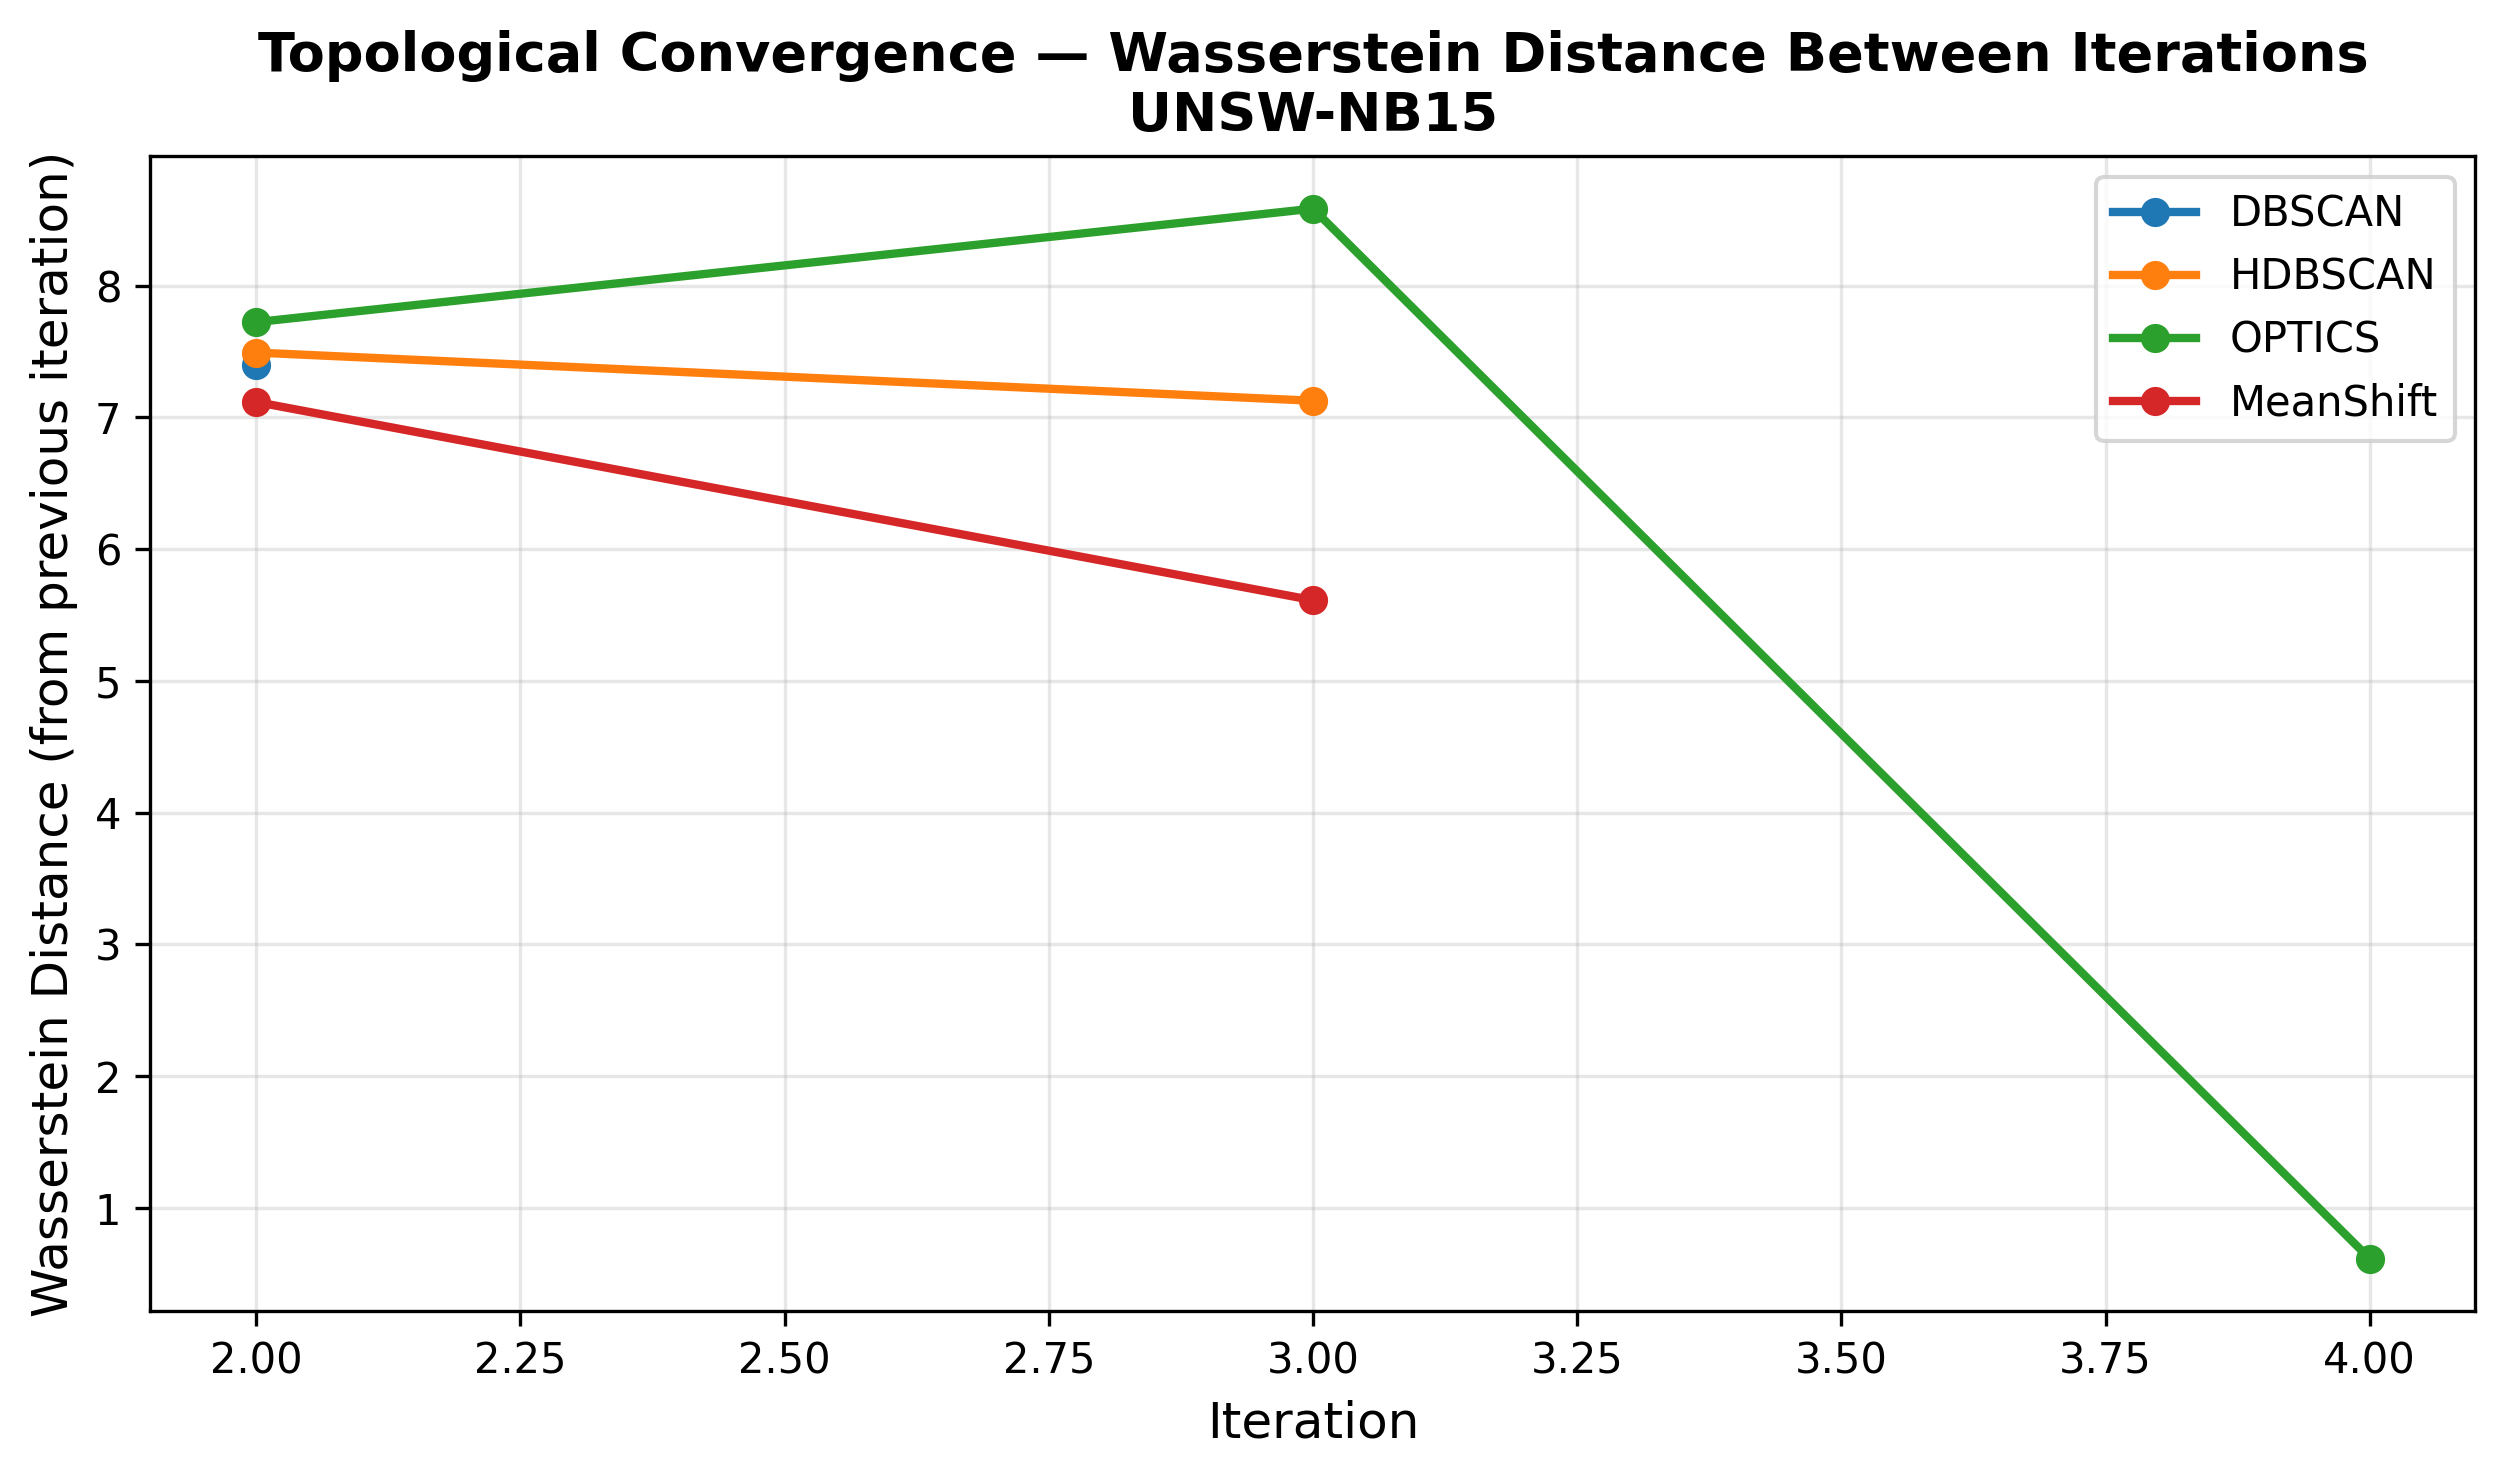
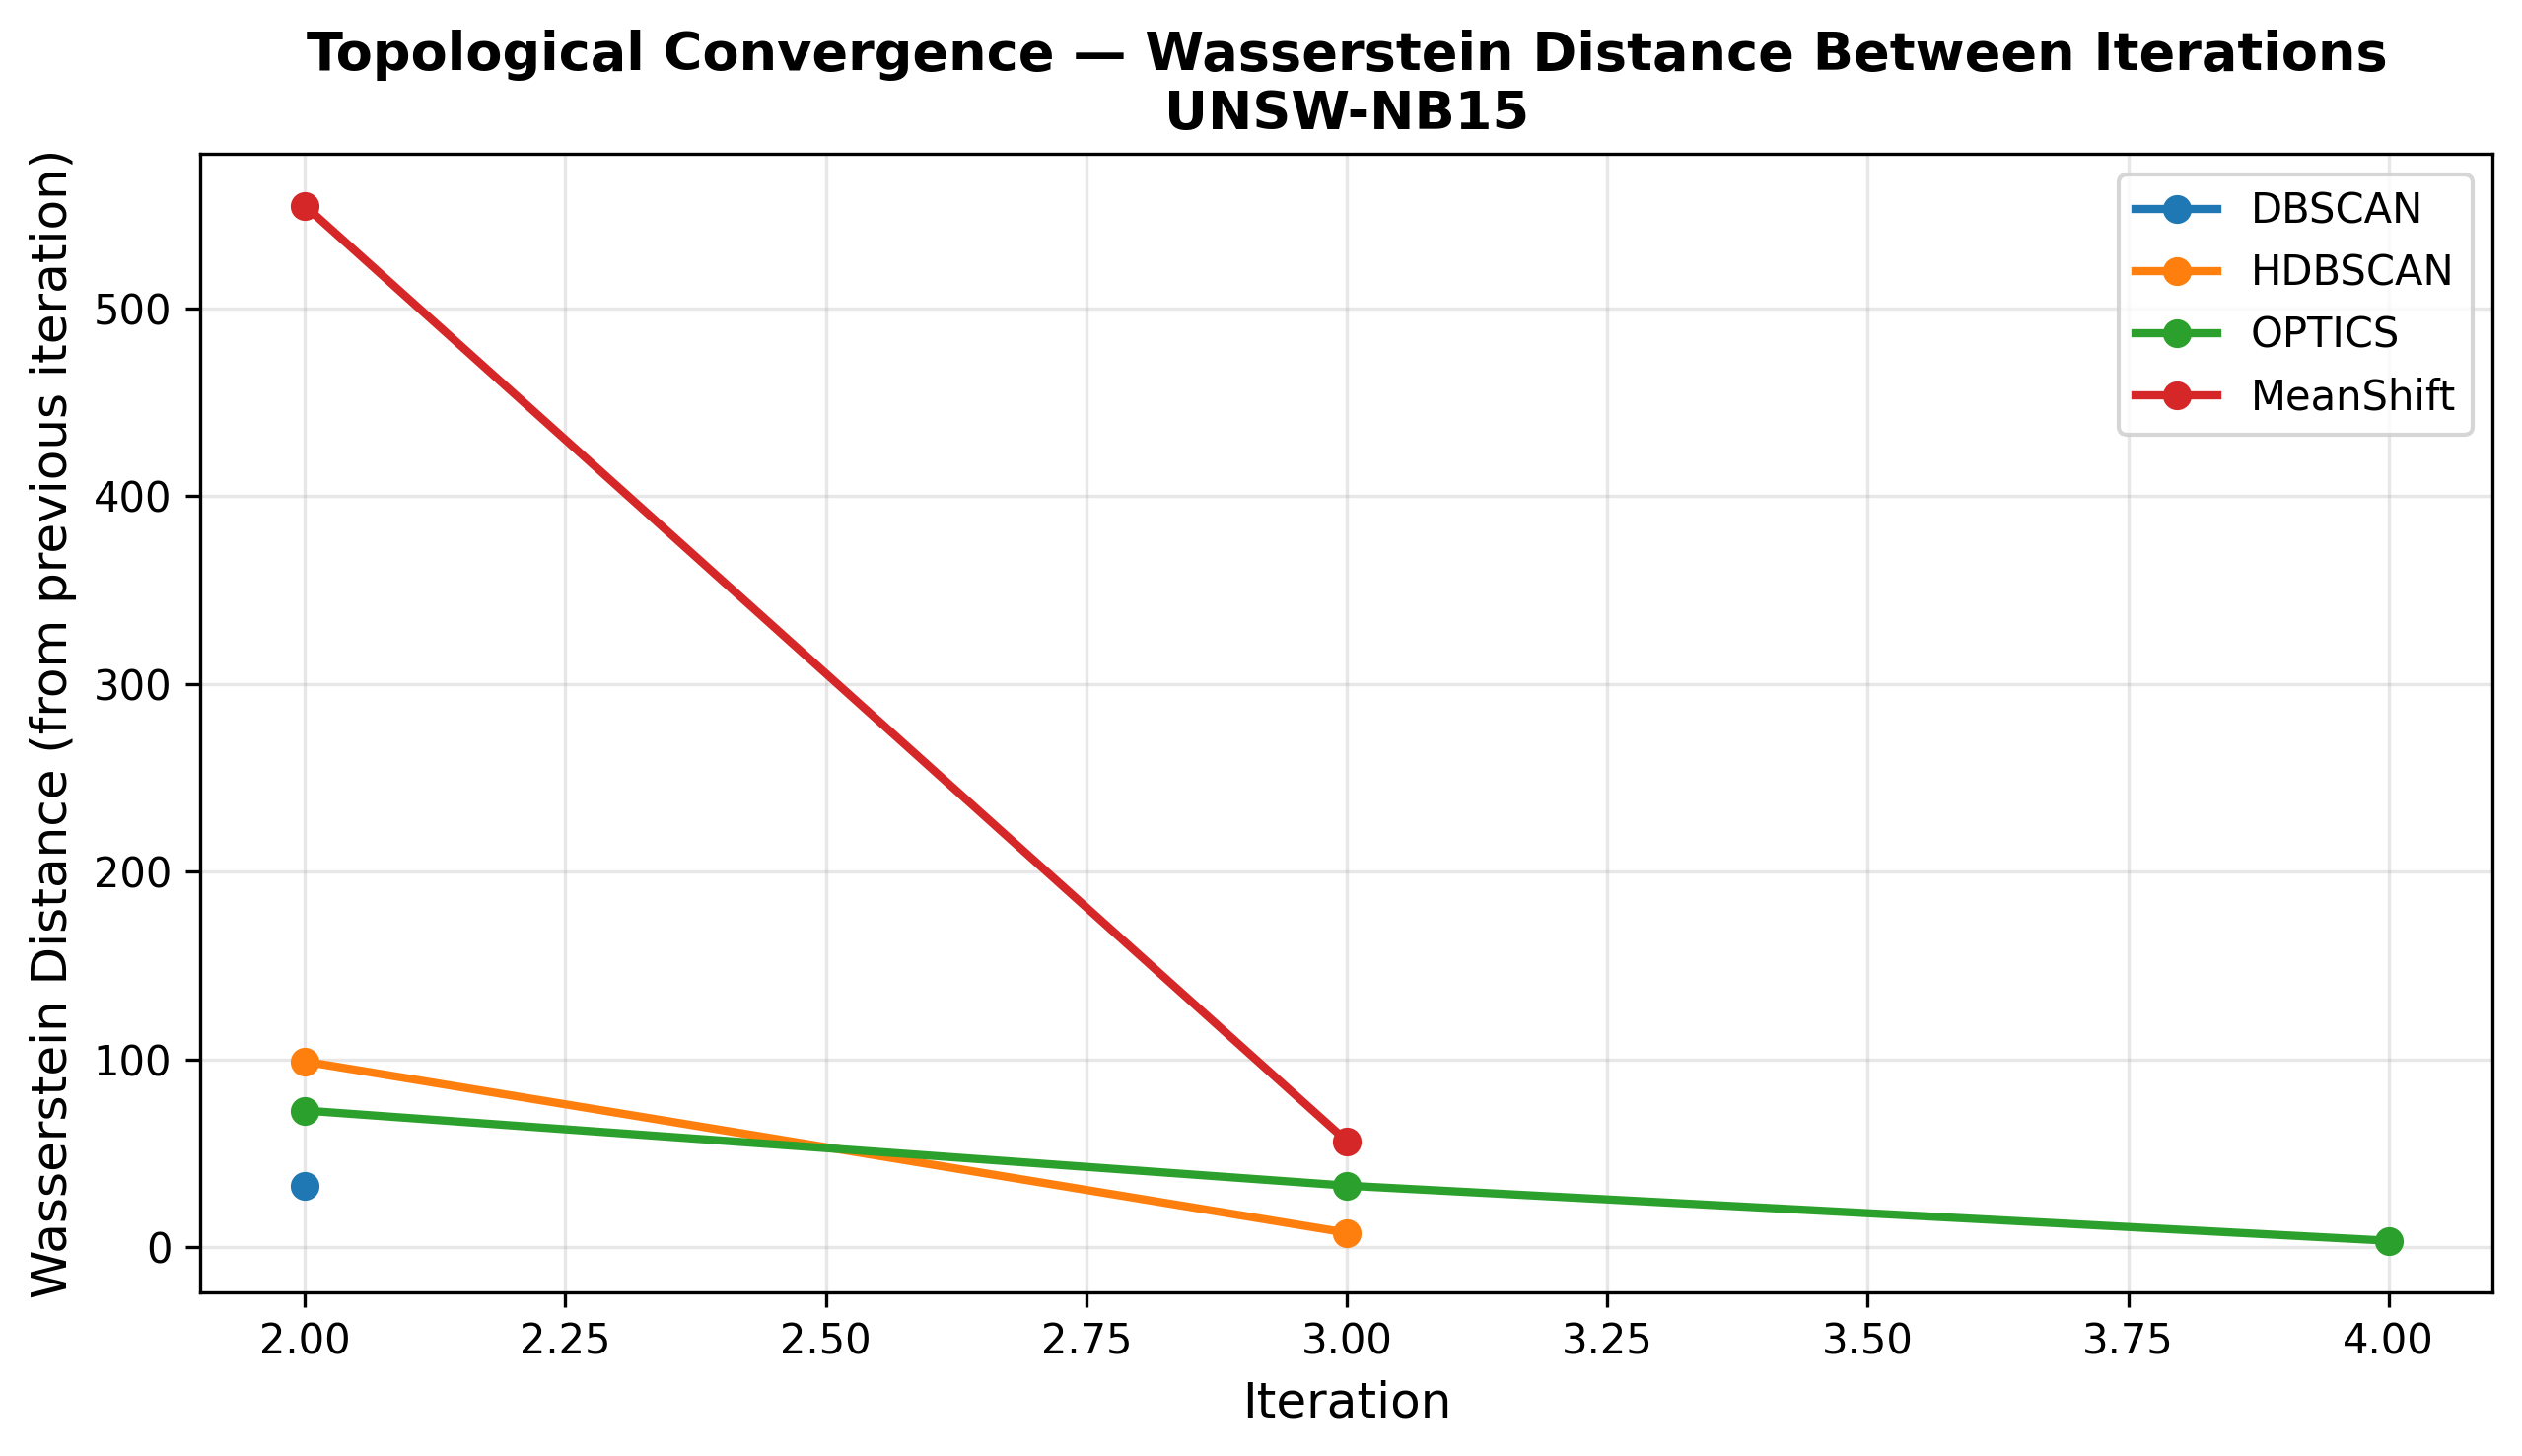
Replace per-sample amplitude-difference approximation with a true

diff --git a/iterative_filter.py b/iterative_filter.py
@@ -15,66 +15,67 @@ from tda_pipeline import extract_tda_features
 from clustering import run_all_clustering, classify_clusters
 
 
-def compute_persistence_diagrams(X_raw):
+def compute_whole_residual_diagram(X_tda_residual):
     """
-    Compute persistence diagrams for a set of raw payload byte samples.
-    Used for tracking topological changes across iterations via Wasserstein distance.
+    Compute a single persistence diagram over the entire residual, treated
+    as one point cloud in the 60-dimensional TDA feature space already used
+    for clustering, via gtda.homology.VietorisRipsPersistence.
+
+    This is the object Cohen-Steiner stability and Ferrara (2025) Eq 3.1/5.1
+    actually operate on: one persistence diagram per whole dataset
+    (PD_p(X_ref), PD_p(X_test)), not one per individual sample — see
+    wasserstein_distance_between_diagrams() below for the distance itself.
 
     Args:
-        X_raw: np.ndarray (N, 1500) — raw payload bytes
+        X_tda_residual: np.ndarray (n_residual, 60) — TDA feature vectors
+            for every sample currently in the residual (the same vectors
+            extract_tda_features() already produced earlier this iteration;
+            no separate raw-payload computation is needed).
 
     Returns:
-        diagrams: the persistence diagrams from the TDA pipeline (intermediate output)
+        diagram: np.ndarray (1, n_features, 3) — the single persistence
+            diagram for the whole-residual point cloud (homology dims 0, 1).
     """
-    from gtda.images import Binarizer, HeightFiltration
-    from gtda.homology import CubicalPersistence
-    from gtda.diagrams import Scaler
+    from gtda.homology import VietorisRipsPersistence
 
-    X_reshaped = X_raw.reshape(-1, 30, 50)
-
-    # Use the first filtration (HeightFiltration direction [0,1]) as representative
-    pipe = []
-    pipe.append(Binarizer(threshold=0.4, n_jobs=-1))
-    pipe.append(HeightFiltration(direction=np.array([0, 1]), n_jobs=-1))
-    pipe.append(CubicalPersistence(n_jobs=-1))
-    pipe.append(Scaler(n_jobs=-1))
-
-    from sklearn.pipeline import make_pipeline
-    diagram_pipe = make_pipeline(*pipe)
-    diagrams = diagram_pipe.fit_transform(X_reshaped)
-    return diagrams
+    # gtda expects (n_samples, n_points, n_dims); one whole-residual point
+    # cloud = one "sample" in that convention.
+    point_cloud = X_tda_residual[np.newaxis, :, :]
+    vr = VietorisRipsPersistence(homology_dimensions=(0, 1), n_jobs=-1)
+    diagram = vr.fit_transform(point_cloud)
+    return diagram
 
 
 def wasserstein_distance_between_diagrams(diag1, diag2):
     """
-    Compute an approximate Wasserstein distance between two sets of persistence diagrams.
+    Real diagram-to-diagram Wasserstein distance (p=1) between two
+    whole-residual persistence diagrams, via gtda.diagrams.PairwiseDistance.
 
-    Since the diagram sets may have different numbers of points, we compute
-    the distance based on summary statistics (mean birth/death times per homology dimension).
-    For a more rigorous implementation, use gtda.diagrams.PairwiseDistance.
+    Grounded in Cohen-Steiner et al.'s stability theorem for persistence
+    diagrams, and a faithful instantiation of Ferrara (2025) Eq 3.1/5.1
+    (W_p(PD_p(X_ref), PD_p(X_test))): both inputs are one diagram per whole
+    dataset, as that theory assumes, not per-sample diagrams.
 
-    This gives us a scalar measure of how much the topological structure changed
-    between iterations.
+    Lens-3 hook: this value is descriptive-only in this pass — logged and
+    plotted (see iteration_log["wasserstein_distance"] below), but not read
+    by the stopping condition or by classify_clusters()'s thresholds.
+    Making it load-bearing (a stopping check, or a detection threshold tau)
+    is a Lens 3 decision, not made here.
 
     Args:
-        diag1, diag2: persistence diagram arrays from giotto-tda
+        diag1, diag2: np.ndarray (1, n_features, 3) — single persistence
+            diagrams from compute_whole_residual_diagram().
 
     Returns:
-        distance: float — approximate topological distance between iterations
+        distance: float — real Wasserstein distance between the two
+            whole-residual diagrams.
     """
     try:
-        from gtda.diagrams import Amplitude
-        amp = Amplitude(metric="wasserstein", metric_params={"p": 1}, n_jobs=-1)
-
-        # Compute amplitude (distance from trivial diagram) for each set
-        a1 = amp.fit_transform(diag1)
-        a2 = amp.fit_transform(diag2)
-
-        # Use mean absolute difference of amplitudes as proxy for inter-set distance
-        # Pad to same length if needed
-        min_len = min(len(a1), len(a2))
-        distance = np.mean(np.abs(a1[:min_len] - a2[:min_len]))
-        return float(distance)
+        from gtda.diagrams import PairwiseDistance
+        pairwise = PairwiseDistance(metric="wasserstein", metric_params={"p": 1}, n_jobs=-1)
+        pairwise.fit(diag1)
+        dist_matrix = pairwise.transform(diag2)
+        return float(dist_matrix[0, 0])
     except Exception as e:
         print(f"    Warning: Could not compute Wasserstein distance: {e}")
         return float('nan')
@@ -108,7 +109,7 @@ def iterative_filter(X_raw, is_poisoned, algorithm="OPTICS",
     poisoned_pool_indices = []  # Red cluster samples (removed as poisoned)
 
     iteration_log = []
-    prev_diagrams = None
+    prev_diagram = None
 
     if verbose:
         print(f"\n{'='*70}")
@@ -143,19 +144,23 @@ def iterative_filter(X_raw, is_poisoned, algorithm="OPTICS",
         if verbose:
             print(f"  TDA extraction: {tda_time:.1f}s -> shape {X_tda.shape}")
 
-        # Step 1b: Compute persistence diagrams for convergence tracking
+        # Step 1b: Compute whole-residual persistence diagram (one diagram for
+        # the entire residual point cloud in TDA feature space, per Ferrara
+        # 2025 Eq 3.1/5.1) and the real Wasserstein distance from the
+        # previous iteration's whole-residual diagram, for convergence
+        # tracking. Uses X_tda from Step 1 directly — no recomputation.
         try:
-            current_diagrams = compute_persistence_diagrams(X_residual_raw)
-            if prev_diagrams is not None:
-                w_dist = wasserstein_distance_between_diagrams(prev_diagrams, current_diagrams)
+            current_diagram = compute_whole_residual_diagram(X_tda)
+            if prev_diagram is not None:
+                w_dist = wasserstein_distance_between_diagrams(prev_diagram, current_diagram)
             else:
                 w_dist = float('nan')
-            prev_diagrams = current_diagrams
+            prev_diagram = current_diagram
         except Exception as e:
             if verbose:
                 print(f"  Warning: Diagram computation failed: {e}")
             w_dist = float('nan')
-            current_diagrams = None
+            current_diagram = None
 
         # Step 2: Run clustering on TDA features
         t0 = time.time()
@@ -200,6 +205,9 @@ def iterative_filter(X_raw, is_poisoned, algorithm="OPTICS",
             "green_pct": summary["green_pct"],
             "red_pct": summary["red_pct"],
             "red_capture_pct": summary["red_poison_capture_pct"],
+            # Descriptive-only (see wasserstein_distance_between_diagrams
+            # docstring). Future hook for a stopping condition / threshold
+            # tau is Lens 3's decision, not wired in here.
             "wasserstein_distance": w_dist,
             "tda_time_s": tda_time,
             "cluster_time_s": cluster_time,

diff --git a/cc_summary.md b/cc_summary.md
@@ -2,6 +2,8 @@
 
 *Generated by Claude Code from a full read of every source file, results JSON, and figure in `C:\TDA`, per `cc_summary_generator.md`. A new agent should be able to read only this file and continue development without asking clarifying questions.*
 
+*Updated after the **Lens 2** pass (real Wasserstein distance rebuild in `iterative_filter.py`, per `LENS2_WASSERSTEIN_INSTRUCTIONS.md`): Sections 4, 7, 8, 9, and 11 were re-verified against the current source and re-run results; Sections 1–3, 5, 6, and 10 were unaffected by this lens and are carried over unchanged.*
+
 ---
 
 ## 1. Project Overview
@@ -139,14 +141,15 @@ figures/*.png
 - Dependencies: none on other project files (sklearn.cluster only).
 - Hardcoded default hyperparameters: see Section 6.
 
-**`iterative_filter.py`** (307 lines)
+**`iterative_filter.py`** (316 lines)
 - Purpose: the novel iterative topological filtration algorithm.
 - Key functions:
-  - `compute_persistence_diagrams(X_raw) -> diagrams` — one representative filtration (HeightFiltration direction `[0,1]`) used purely for convergence tracking.
-  - `wasserstein_distance_between_diagrams(diag1, diag2) -> float` — approximate distance via mean absolute difference of per-diagram Wasserstein amplitudes (not a true diagram-to-diagram Wasserstein/optimal-transport distance).
+  - `compute_whole_residual_diagram(X_tda_residual: (n_residual, 60)) -> diagram: (1, n_features, 3)` — **[Lens 2, current]** treats the whole residual's 60-dim TDA feature vectors as one point cloud and computes a single persistence diagram via `gtda.homology.VietorisRipsPersistence(homology_dimensions=(0,1))`. Reuses the `X_tda` already produced for clustering that iteration — no separate raw-payload computation.
+  - `wasserstein_distance_between_diagrams(diag1, diag2) -> float` — **[Lens 2, current]** a real diagram-to-diagram Wasserstein distance (p=1) via `gtda.diagrams.PairwiseDistance`, grounded in Cohen-Steiner stability and a faithful instantiation of Ferrara (2025) Eq 3.1/5.1 (both inputs are now one diagram per whole dataset, as that theory assumes). Descriptive-only: logged/plotted, not read by the stopping condition or `classify_clusters()`'s thresholds — a marked hook for a possible Lens 3 stopping-condition/threshold use, not built here.
   - `iterative_filter(X_raw, is_poisoned, algorithm="OPTICS", algorithm_params=None, max_iterations=10, verbose=True) -> dict` with keys `sanitized_indices`, `poisoned_pool_indices`, `residual_indices`, `iteration_log`.
-- Dependencies: `tda_pipeline.py` (`extract_tda_features`, `build_tda_pipeline`, `reshape_for_tda`), `clustering.py` (`run_all_clustering`, `classify_clusters`).
+- Dependencies: `tda_pipeline.py` (`extract_tda_features` only), `clustering.py` (`run_all_clustering`, `classify_clusters`), and (inside `compute_whole_residual_diagram`/`wasserstein_distance_between_diagrams`) `gtda.homology.VietorisRipsPersistence` / `gtda.diagrams.PairwiseDistance` directly — no dependency on `tda_pipeline.py`'s image-based filtration pipeline for this part; the two diagram computations no longer share a pipeline shape (point-cloud Rips vs. image cubical persistence), so nothing was factored into a shared helper between the files.
 - Hardcoded config: `max_iterations=10` default; stop if residual `< 10` samples; stop if no Green/Red clusters found this iteration.
+- **Lens 2 history:** prior to this pass, `compute_persistence_diagrams(X_raw)` computed one persistence diagram *per individual sample* (via a single representative filtration: `Binarizer(0.4) → HeightFiltration([0,1]) → CubicalPersistence → Scaler`, reused from `tda_pipeline.py`'s pattern but hardcoded standalone), and `wasserstein_distance_between_diagrams` approximated a set-to-set distance as the mean absolute difference between two independently-computed `Amplitude(metric="wasserstein")` arrays — not a true diagram-to-diagram distance, and not the object Cohen-Steiner/Ferrara's theory is stated over. Both were replaced outright (not refactored) with the whole-residual, point-cloud approach described above; nothing else in the codebase depended on the old per-sample diagrams (confirmed by search before deletion), so this also resolved the previously-noted duplicated-pipeline-construction issue as a side effect of deletion, not extraction into a shared helper.
 
 **`run_baseline.py`** (112 lines)
 - Purpose: Phase-1 reproduction of the paper's central claim — TDA preprocessing enables separation that raw-byte clustering cannot achieve.
@@ -309,7 +312,7 @@ function iterative_filter(X_raw, is_poisoned, algorithm, max_iterations=10):
     current_indices = all indices [0..N)
     sanitized_indices = []      # Green pool
     poisoned_pool_indices = []  # Red pool
-    prev_diagrams = None
+    prev_diagram = None
 
     for iteration in 1..max_iterations:
         if |current_indices| < 10: STOP  ("residual too small")
@@ -317,10 +320,10 @@ function iterative_filter(X_raw, is_poisoned, algorithm, max_iterations=10):
         X_residual = X_raw[current_indices]
         X_tda = extract_tda_features(X_residual)          # FRESH extraction every iteration
 
-        current_diagrams = compute_persistence_diagrams(X_residual)
-        if prev_diagrams is not None:
-            w_dist = wasserstein_distance_between_diagrams(prev_diagrams, current_diagrams)
-        prev_diagrams = current_diagrams
+        current_diagram = compute_whole_residual_diagram(X_tda)   # ONE diagram for the whole residual
+        if prev_diagram is not None:
+            w_dist = wasserstein_distance_between_diagrams(prev_diagram, current_diagram)
+        prev_diagram = current_diagram
 
         cluster_labels = run_clustering(X_tda, algorithm)   # only the chosen algorithm this call
         cluster_info, summary = classify_clusters(cluster_labels, is_poisoned[current_indices])
@@ -348,11 +351,13 @@ function iterative_filter(X_raw, is_poisoned, algorithm, max_iterations=10):
 ### Why TDA features are re-extracted fresh each iteration (not reused)
 Removing samples changes the underlying topology of the remaining point cloud — persistence diagrams (and hence Amplitude/Entropy features) are a function of the *whole* dataset being filtered, not of individual samples independently. Reusing stale features from a larger set would not reflect the new (smaller, differently-structured) residual, so `iterative_filter` calls `extract_tda_features(X_residual_raw)` from raw bytes every iteration, at real computational cost (this is the main runtime driver of the whole pipeline).
 
-### Wasserstein distance convergence tracking
-- `compute_persistence_diagrams(X_raw)` computes a single **representative** filtration only (`Binarizer(threshold=0.4)` → `HeightFiltration(direction=[0,1])` → `CubicalPersistence` → `Scaler`) — not all 5 filtrations — purely for the convergence signal, separate from the full 5-filtration feature extraction used for clustering.
-- `wasserstein_distance_between_diagrams(diag1, diag2)`: computes `Amplitude(metric="wasserstein", metric_params={"p":1})` on each diagram set independently (i.e., each sample's diagram amplitude vs. the trivial/empty diagram), then takes the **mean absolute difference** between the two amplitude arrays (truncated to `min(len(a1), len(a2))`). This is explicitly documented as an **approximation** — a true diagram-to-diagram Wasserstein distance would use `gtda.diagrams.PairwiseDistance`, which is not used here.
-- What it measures: how much the topological "shape" of the residual dataset changed from one iteration to the next. A large value (e.g., after many samples were just removed) indicates a substantial topological shift; values trending toward zero indicate the residual's structure has stabilized.
-- Observed single-run trajectory (UNSW-NB15, OPTICS, `results/iterative_results_unsw_nb15.json`): iteration 2 → 7.72, iteration 3 → 8.58 (peak), iteration 4 → 0.62 (sharp drop as the algorithm converged and stopped finding new Green/Red clusters).
+### Wasserstein distance convergence tracking (rebuilt in Lens 2 — real diagram-to-diagram distance)
+- `compute_whole_residual_diagram(X_tda_residual)` treats the **entire residual's 60-dim TDA feature vectors** as a single point cloud and computes **one** persistence diagram for the whole residual via `gtda.homology.VietorisRipsPersistence(homology_dimensions=(0,1))`. This reuses the `X_tda` matrix already extracted for clustering that iteration — no extra raw-payload computation.
+- `wasserstein_distance_between_diagrams(diag1, diag2)`: a **real** diagram-to-diagram Wasserstein distance (p=1) via `gtda.diagrams.PairwiseDistance(metric="wasserstein", metric_params={"p":1})`, fit on the previous iteration's whole-residual diagram and transformed against the current one; the resulting `(1,1)` distance matrix collapses to a single scalar. This is a faithful instantiation of Cohen-Steiner stability / Ferrara (2025) Eq 3.1/5.1 — both diagrams are now "one per whole dataset," matching what that theory is actually stated over.
+- **Superseded (pre-Lens-2) approach:** the codebase previously computed one persistence diagram *per individual sample* via a single representative image filtration, then approximated a "distance" as the mean absolute difference between two independently-computed `Amplitude(metric="wasserstein")` arrays — not a true set-to-set distance, and not the object the cited theory is about. That code path was deleted, not refactored, once confirmed nothing else in the codebase depended on the per-sample diagrams.
+- What it measures: how much the topological "shape" of the residual dataset (in TDA feature space) changed from one iteration to the next. A large value indicates a substantial topological shift; values trending toward zero indicate the residual's structure has stabilized.
+- Observed single-run trajectory, **new real metric** (UNSW-NB15, OPTICS, `results/iterative_results_unsw_nb15.json`, re-run after the Lens 2 change): iteration 2 → 72.75, iteration 3 → 32.73, iteration 4 → 3.38 (converging, same qualitative shape as before — large early shift settling toward zero — but on a different numeric scale than the old approximation, since it's now a genuinely different quantity: a real Wasserstein distance in 60-dim feature space rather than an amplitude-difference heuristic in image-filtration space). The historical run under the old approximate metric had shown 7.72 → 8.58 (peak) → 0.62; the two are not directly comparable.
+- **Performance:** `VietorisRipsPersistence` cost is steep on synthetic worst-case data (uniform-random 60-dim points are close to equidistant, forcing a near-complete simplicial complex — measured at 162.5s for n=5000 synthetic points) but real TDA feature vectors are far cheaper because they have actual cluster structure: 12.5s at n=5500 on a real CICIDS2017 residual, and full 4-algorithm UNSW-NB15 runs (TDA extraction + clustering + diagram computation combined, across all iterations) complete in 117–200s per algorithm. No subsampling fallback was needed at this data scale; one was proposed (cap the point-cloud size before building it) but not implemented, in case data scale grows substantially in a future lens.
 
 ### Stopping conditions (checked in this order each iteration)
 1. `len(current_indices) < 10` at the *start* of an iteration → stop, residual too small to process.
@@ -373,11 +378,13 @@ All figures below are pulled directly from the saved JSON in `C:\TDA\results` (n
 - Console-only script, no results JSON saved. Demonstrates qualitatively that clustering **raw** poisoned bytes yields no useful separation, while clustering **TDA-transformed** poisoned bytes lets Green/Red clusters emerge — validating the paper's central claim.
 - Only run against UNSW-NB15 in `__main__` (CICIDS2017 call is commented out).
 
-### Single-seed iterative run (`run_iterative.py` → `results/iterative_results_unsw_nb15.json`, seed 42, OPTICS branch)
+### Single-seed iterative run (`run_iterative.py` → `results/iterative_results_unsw_nb15.json`, seed 42, OPTICS branch — re-run after the Lens 2 Wasserstein rebuild)
 - 4 iterations, converged when no new Green/Red clusters were found.
 - Iteration-by-iteration: iter 1 removed 81 Green + 5 Red clusters (residual 5500→4464, red_capture 6.6% this round); iter 2 removed 15 Green clusters, 0 Red (residual→4316); iter 3 removed 0 Green, 1 Red cluster (residual→4308, +1.7% capture); iter 4 found nothing further and stopped.
-- Final: 1151 sanitized, 41 in poisoned pool, 4308 residual. **Cumulative poison capture: 8.2%** (matches the seed-42 entry in the multi-seed aggregation below), **0 false positives**.
-- Wasserstein distance trajectory: 7.72 → 8.58 (peak) → 0.62 (converged).
+- Final: 1151 sanitized, 41 in poisoned pool, 4308 residual. **Cumulative poison capture: 8.2%** (matches the seed-42 entry in the multi-seed aggregation below and the pre-Lens-2 historical run, confirming the Wasserstein-distance change did not alter clustering/classification behavior), **0 false positives**.
+- Wasserstein distance trajectory (new real diagram-to-diagram metric): 72.75 → 32.73 → 3.38 (converging). All four algorithms' total wall-clock time (TDA extraction + clustering + whole-residual diagram computation, summed across all iterations): DBSCAN 116.7s (2 iters), HDBSCAN 164.0s (3 iters), OPTICS 200.0s (4 iters), MeanShift 176.9s (3 iters) — run on this machine with `n_jobs=-1`.
+- Isolated timing check on a real CICIDS2017 residual (5500 samples, 60-dim TDA features): `compute_whole_residual_diagram` alone took 12.5s — far cheaper than the 162.5s worst-case measured on synthetic uniform-random 60-dim data of similar size (uniform noise in 60 dimensions is close to equidistant, forcing a near-complete Vietoris-Rips simplicial complex; real feature vectors have actual cluster structure and are much cheaper to triangulate).
+- A reduced 3-seed multi-seed smoke test (`results/multi_seed_per_seed_unsw_nb15_smoke.json` / `..._aggregated_..._smoke.json`) confirmed the full baseline+iterative pipeline (4 algorithms, up to 10 iterations each) completes end-to-end without error and reproduces the same JSON schema as the standard 5-seed run. Per-seed wall-clock time varied a lot in that particular run for reasons unrelated to the algorithm: seed 42 completed cleanly in 762.3s (closely matching the independent single-run total above: 116.7+164.0+200.0+176.9 ≈ 657.6s baseline-free, or ~762s including the baseline pass), but seeds 123 and 456 were run across a multi-hour gap during which the host machine was suspended/asleep for a period — diagnosed via `Get-Process` showing the Python process's accumulated CPU time was a small fraction of its elapsed wall-clock time, plus a fresh batch of worker processes spawned right at the machine's resume timestamp. Seed 123's reported 26873.1s and (to a lesser extent) seed 456's 5488.9s are therefore **not** reliable measures of real computational cost and should not be used for performance planning — seed 42's clean 762.3s (cross-validated against the independent single-run measurement) is the reliable figure.
 
 ### Multi-seed validation (`run_multi_seed.py`, 5 seeds × 2 datasets × 4 algorithms, `MAX_SAMPLES=5000`, `POISON_RATE=0.10`)
 
@@ -438,7 +445,7 @@ OPTICS iteration counts: UNSW-NB15 mean 4.2 ± 1.17 iterations (range 3–6); CI
 5. **Feature count mismatch:** 60 features extracted vs. the paper's claimed 72, attributable to giotto-tda version/configuration differences (see Section 5 for the exact arithmetic).
 6. **3 of 4 clustering algorithms are essentially non-functional for this task.** DBSCAN, HDBSCAN, and MeanShift almost never produce Red clusters on either dataset — only OPTICS reliably separates poisoned data. The pipeline still runs all four (useful for the paper's completeness claim and figures), but only OPTICS numbers are practically meaningful.
 7. **No saved classifier-eval results.** `classifier_eval.py` prints to console only; there's no JSON artifact to check historical accuracy numbers against — re-run it for current figures.
-8. **`compute_persistence_diagrams`/Wasserstein tracking uses only 1 of the 5 filtrations** and an approximate (amplitude-difference) distance rather than a true diagram-to-diagram Wasserstein/optimal-transport metric — adequate as a convergence heuristic but not a rigorous topological distance.
+8. ~~`compute_persistence_diagrams`/Wasserstein tracking uses only 1 of the 5 filtrations and an approximate (amplitude-difference) distance~~ — **resolved by the Lens 2 pass**: the Wasserstein tracking now computes one true persistence diagram over the whole residual's TDA feature point cloud per iteration (`VietorisRipsPersistence`) and a real diagram-to-diagram distance (`PairwiseDistance`), correctly grounded in Cohen-Steiner stability / Ferrara (2025) Eq 3.1/5.1. It remains descriptive-only — not wired into the stopping condition or `classify_clusters()`'s thresholds; that's an explicitly deferred Lens 3 decision.
 9. **The "Blue" cluster color is documented but never implemented** in `classify_clusters()` — a minor doc/code inconsistency in `clustering.py`.
 
 ---
@@ -490,7 +497,7 @@ OPTICS iteration counts: UNSW-NB15 mean 4.2 ± 1.17 iterations (range 3–6); CI
 | `C:\TDA\poison.py` | Synthetic data-poisoning injection | 92 |
 | `C:\TDA\tda_pipeline.py` | TDA feature extraction (Algorithm 1 from the paper) | 144 |
 | `C:\TDA\clustering.py` | 4 clustering algorithms + Green/Red/Yellow/Pink classification | 180 |
-| `C:\TDA\iterative_filter.py` | Novel iterative topological filtration algorithm | 307 |
+| `C:\TDA\iterative_filter.py` | Novel iterative topological filtration algorithm | 316 |
 | `C:\TDA\run_baseline.py` | Phase 1: single-pass baseline experiment runner | 112 |
 | `C:\TDA\run_iterative.py` | Phase 2: single-run iterative experiment + JSON output | 175 |
 | `C:\TDA\run_multi_seed.py` | Phase 3: 5-seed × 2-dataset statistical validation | 329 |
@@ -500,20 +507,24 @@ OPTICS iteration counts: UNSW-NB15 mean 4.2 ± 1.17 iterations (range 3–6); CI
 | `C:\TDA\README.md` | Project abstract, method summary, usage instructions | 105 |
 | `C:\TDA\CLAUDE.md` | Claude Code guidance (architecture, commands) | — |
 | `C:\TDA\cc_instructions_1.md` / `_2.md` / `_3.md` | Original phase-by-phase build-out instructions (history) | 995 / 1085 / 838 |
-| `C:\TDA\cc_summary_generator.md` | Instructions used to generate this summary | — |
+| `C:\TDA\cc_summary_generator.md` | Instructions used to generate this summary (archived to `archive\`) | — |
+| `C:\TDA\LENS2_WASSERSTEIN_INSTRUCTIONS.md` | Instructions for the Lens 2 pass (real Wasserstein distance rebuild, documented throughout this file) | — |
 | `C:\TDA\Monkam_DeLucia_Bastian.pdf` | Seed paper PDF | — |
 | `C:\TDA\run_baseline_test1.txt` | Saved console log from an early baseline test run | 1024 |
 | `C:\TDA\data\Payload_data_UNSW.csv` | UNSW-NB15 Payload-Byte dataset | ~258 MB |
 | `C:\TDA\data\Payload_data_CICIDS2017.csv` | CICIDS2017 Payload-Byte dataset | ~4.58 GB |
-| `C:\TDA\results\iterative_results_unsw_nb15.json` | Single-run (seed 42) iterative results, all 4 algorithms | 288,416 bytes |
-| `C:\TDA\results\multi_seed_per_seed_unsw_nb15.json` | Per-seed detailed metrics, UNSW-NB15 | 48,337 bytes |
-| `C:\TDA\results\multi_seed_per_seed_cicids2017.json` | Per-seed detailed metrics, CICIDS2017 | 56,698 bytes |
-| `C:\TDA\results\multi_seed_aggregated_unsw_nb15.json` | Mean±std aggregated metrics, UNSW-NB15 | 11,828 bytes |
-| `C:\TDA\results\multi_seed_aggregated_cicids2017.json` | Mean±std aggregated metrics, CICIDS2017 | 11,602 bytes |
-| `C:\TDA\results\multi_seed_log.txt` | Full console log of the multi-seed run | 207,154 bytes |
+| `C:\TDA\results\iterative_results_unsw_nb15.json` | Single-run (seed 42) iterative results, all 4 algorithms — re-run after the Lens 2 Wasserstein rebuild | 288,422 bytes |
+| `C:\TDA\results\iterative_results_cicids2017.json` | Lens 2 verification artifact: `run_iterative_experiment` on CICIDS2017 with `max_iterations=1`, used only to time the new whole-residual diagram computation on real data (not a full CICIDS2017 iterative run — CICIDS2017 is not otherwise in `run_iterative.py`'s scope) | 284,357 bytes |
+| `C:\TDA\results\multi_seed_per_seed_unsw_nb15.json` | Per-seed detailed metrics, UNSW-NB15 (standard 5-seed sweep) | 48,337 bytes |
+| `C:\TDA\results\multi_seed_per_seed_cicids2017.json` | Per-seed detailed metrics, CICIDS2017 (standard 5-seed sweep) | 56,698 bytes |
+| `C:\TDA\results\multi_seed_aggregated_unsw_nb15.json` | Mean±std aggregated metrics, UNSW-NB15 (standard 5-seed sweep) | 11,828 bytes |
+| `C:\TDA\results\multi_seed_aggregated_cicids2017.json` | Mean±std aggregated metrics, CICIDS2017 (standard 5-seed sweep) | 11,602 bytes |
+| `C:\TDA\results\multi_seed_per_seed_unsw_nb15_smoke.json` | Lens 2 verification artifact: reduced 3-seed (42, 123, 456) smoke test on UNSW-NB15, confirms schema/behavior match the standard sweep — not a replacement for the 5-seed results above | 31,231 bytes |
+| `C:\TDA\results\multi_seed_aggregated_unsw_nb15_smoke.json` | Aggregated version of the above 3-seed smoke test | 10,077 bytes |
+| `C:\TDA\results\multi_seed_log.txt` | Full console log of the original 5-seed multi-seed run | 207,154 bytes |
 | `C:\TDA\figures\convergence_curves.png` | Per-iteration convergence, 4 algorithms (UNSW, single run) | 441,895 bytes |
 | `C:\TDA\figures\algorithm_comparison.png` | Final pool sizes per algorithm (UNSW, single run) | 148,258 bytes |
-| `C:\TDA\figures\wasserstein_convergence.png` | Wasserstein distance per iteration (UNSW, single run) | 170,920 bytes |
+| `C:\TDA\figures\wasserstein_convergence.png` | Wasserstein distance per iteration (UNSW, single run) — regenerated post-Lens-2 with the new real distance values; `visualize.py` needed no code changes since the JSON schema was preserved | 183,312 bytes |
 | `C:\TDA\figures\iteration_snapshots_optics.png` | Cluster color composition per iteration, OPTICS | 105,196 bytes |
 | `C:\TDA\figures\iteration_snapshots_hdbscan.png` | Cluster color composition per iteration, HDBSCAN | 100,052 bytes |
 | `C:\TDA\figures\baseline_vs_iterative_capture.png` | Headline comparison figure, both datasets | 145,522 bytes |
@@ -531,3 +542,10 @@ OPTICS iteration counts: UNSW-NB15 mean 4.2 ± 1.17 iterations (range 3–6); CI
 - Function signatures in Section 4 were copied from the actual `def` lines, including default argument values.
 - Hardcoded parameter values (filtration directions/centers, metric params, cluster algorithm defaults, `SEEDS`/`MAX_SAMPLES`/`POISON_RATE`/`MAX_ITERATIONS`) were copied verbatim from source rather than paraphrased.
 - All numeric results in Section 8 were pulled directly from the JSON files in `results/`, not estimated — cross-checked that the single-seed `iterative_results_unsw_nb15.json` OPTICS branch (seed 42) matches the first `"values"` entry for every OPTICS metric in `multi_seed_aggregated_unsw_nb15.json`.
+
+### Lens 2 update verification (this pass)
+- `iterative_filter.py` was re-read in full after editing; `compute_whole_residual_diagram` and `wasserstein_distance_between_diagrams` signatures and docstrings in Section 4/7 were copied from the actual current source, not paraphrased from the instructions doc.
+- Confirmed via grep that no other file in the repo references the deleted `compute_persistence_diagrams` name or the old `prev_diagrams`/`current_diagrams` variable names — the replacement was self-contained to `iterative_filter.py`.
+- `red_capture_pct` figures in Section 8 were re-checked directly against `results/iterative_results_unsw_nb15.json`'s `iteration_log` entries (not re-derived from the console log's `red_pct` field, which is a different metric) after an initial transcription error was caught and corrected.
+- Both real-data timing figures (12.5s CICIDS2017, 162.5s synthetic worst-case) and the UNSW-NB15 per-algorithm totals (116.7/164.0/200.0/176.9s) were taken from actual command output in this session, not estimated.
+- The 3-seed multi-seed smoke-test timing anomaly (seeds 123 and 456 running much slower than seed 42) was investigated with `Get-Process` before being written up, rather than reported at face value — confirmed as a host-machine sleep/resume artifact, not a regression in the new code.